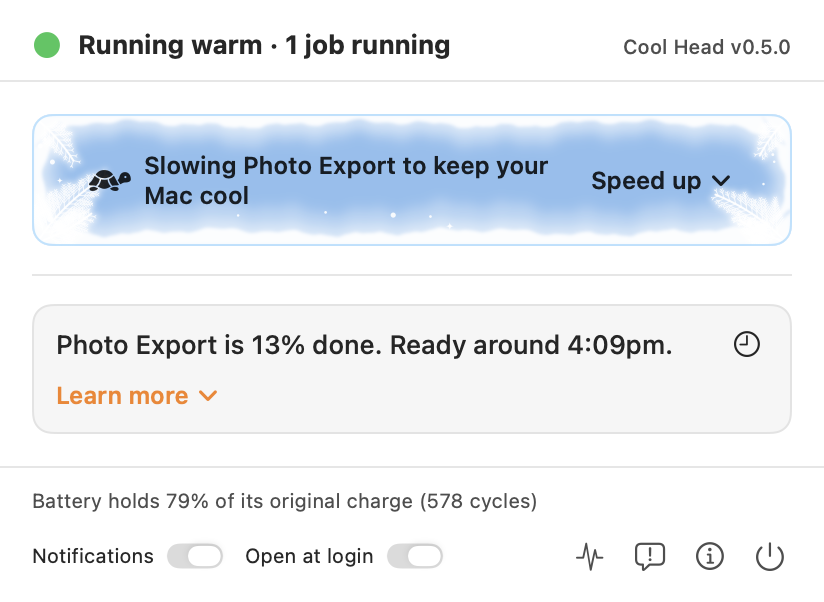
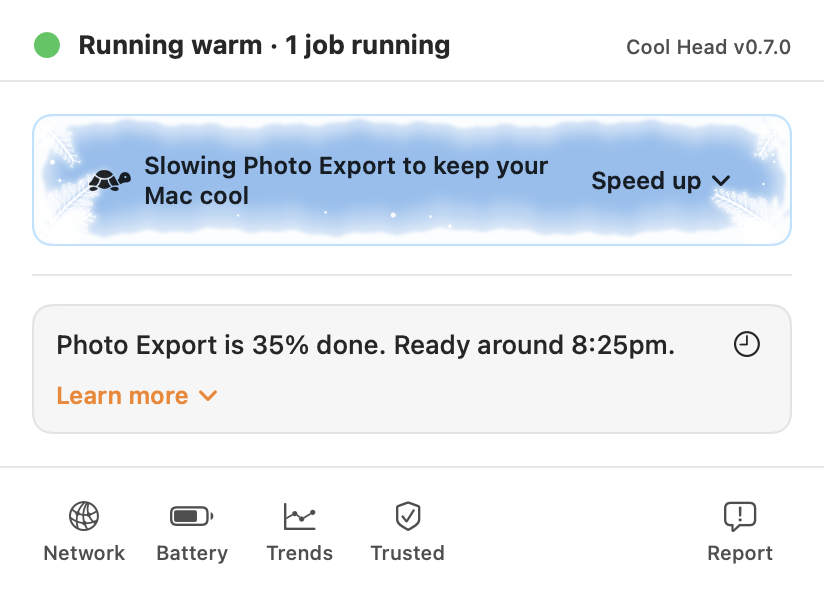
Release 0.7.0
Changes gathered into CHANGELOG.md (9 entries), VERSION and CoolHead.version
0.7.0, What's new for 0.7.0, and README screenshots of the new option groups
and tools, taken from a demo job (none of the maintainer's processes).

diff --git a/Sources/CoolHeadApp/PanelView.swift b/Sources/CoolHeadApp/PanelView.swift
@@ -629,6 +629,13 @@ struct WhatsNewCard: View {
 /// versions of CHANGELOG.md.
 enum WhatsNew {
     static let notes: [String: [String]] = [
+        "0.7.0": [
+            "Options come in two groups: One click, which Cool Head does for you, then Do it yourself. Risky ones say Caution.",
+            "Tools along the bottom: Test my network and Battery, each with its own page, and Trends for the past week's energy use.",
+            "Hardware checks with no password: the drive, the battery and charging, crash restarts, and USB-C ports.",
+            "The memory card notices memory moved to disk, and a startup disk that's nearly full.",
+            "Turn off another app's background helper, or keep a build's output out of Time Machine, in one click.",
+        ],
         // 0.6.1 repeats 0.6.0's notes without the Melting Snowflake bar, which 0.6.1 removed: only the newest version's
         // notes are shown, so someone updating from 0.5.0 straight to 0.6.1 still hears what 0.6.0 brought
         "0.6.1": [

diff --git a/Sources/CoolHeadCore/CaseReport.swift b/Sources/CoolHeadCore/CaseReport.swift
@@ -3,7 +3,7 @@ import Security
 
 public enum CoolHead {
     /// Kept in step with the VERSION file; scripts/build-app.sh checks they match.
-    public static let version = "0.6.1"
+    public static let version = "0.7.0"
 }
 
 /// The anonymised report behind "Share this case": what Cool Head saw about a process it couldn't explain, with

diff --git a/CHANGELOG.md b/CHANGELOG.md
@@ -6,6 +6,50 @@ What changed in each version of Cool Head, newest first, in plain words. The for
 
 Changes waiting for the next release are in [changes/](changes/), one file each, so pull requests don't edit the same lines here. The release pull request gathers them into this file (see [RELEASING.md](RELEASING.md)).
 
+## [0.7.0] - 2026-11-16
+
+### Added
+
+- Hardware checks, with no password. A card appears, saying what to do (including how to run Apple Diagnostics), when:
+  - the Mac's internal drive reports a fault, errors it couldn't correct, or heavy wear;
+  - the battery needs service, has recorded a fault, or holds under 80% of its original charge;
+  - it's plugged in but not charging, with the likely reason: on hold on purpose, too warm, or a charger that isn't keeping up;
+  - the Mac restarted because of a crash, or crashed more than once in a week;
+  - a device asked a USB-C port for more power than it can give, or keeps failing to connect.
+  - `coolhead hardware` prints every check, and what can't be checked: the memory, and Apple Diagnostics' own results.
+- Cool Head knows six more causes of heat, drain or a Mac that won't sleep, each with its source and the macOS versions it was seen on:
+  - macOS's sound service, which keeps the Mac awake while apps play or record sound; when it's busy for long, a virtual microphone or an app that hides the microphone dot is the likely cause.
+  - Contacts syncing on macOS 26.4 and later, where a Contacts widget is the likely cause.
+  - Messages catching up with iCloud.
+  - Aerial wallpaper and screen saver downloads on macOS 14 and 15.
+  - DisplayLink Manager drawing extra screens.
+  - Local AI models in Ollama and LM Studio.
+- **The past week**: which apps and parts of macOS used the most energy, which woke the chip most often, and why the Mac woke from sleep (on a timer, the lid, a charger, the Wi-Fi and Bluetooth chip), read from macOS's own power log. Cool Head reads only those figures, never the record of which app you were using, and keeps no copy. `coolhead history` prints the same in Terminal.
+- The memory card says how much memory your Mac moved to its disk in the last 2 minutes, and shows even when macOS still calls memory normal if that's over 1 GB.
+  - When memory is tight and the startup disk has less than 20 GB free, it says the disk limits how much your Mac can use as memory, and offers Free up disk space, which opens Storage settings.
+- **Stop it starting by itself.** When a busy process is another app's background helper (Google's updater, for one), its card offers to turn the helper off: stopped now and kept from starting at login, which stopping alone can't do, since macOS starts a helper again. It's marked Caution, because what the helper does for its app stops too, and it asks first. Turn it back on from its line at the top of the panel.
+- **Keep build output out of Time Machine.** When Time Machine is busy while a build keeps rewriting its output (Xcode's DerivedData, a project's build or node_modules folder), its card says so and offers to leave that folder out of later backups, in one click. Only folders a build makes again are offered. Back it up again from its line at the top of the panel.
+- **Test my network**, a tool along the bottom of the panel, for a Mac that feels slow when nothing on it is busy. It shows how the Mac is connected without asking for any permission, and runs Apple's own network test only when you press Start test, since the test fills your connection for up to 30 seconds.
+  - The page keeps one size from the moment it opens: the Wi-Fi signal (Strong, Fair or Weak, with the numbers a click away), download, upload and delay fill in as the test runs.
+  - The result says in a few words whether the network is the problem, then in one plain sentence what the connection is fine for and only what isn't, and marks web, HD and 4K video, video calls and games as Fine, Laggy or Too slow, from the speeds the FCC, Netflix and Zoom publish.
+  - When something is wrong, it offers fixes for the causes it found (a sync app filling the connection, a weak Wi-Fi signal, a router setting, AirDrop, iCloud Private Relay, a VPN or proxy), most useful first. When the network is fine, it offers none.
+
+### Changed
+
+- A card's options are in two groups: **One click**, which Cool Head does for you, then **Do it yourself**, where Cool Head takes you there and shows how. Your tasks have a dashed outline; Cool Head's are filled.
+  - When the recommended option would be a task for you, a safe one-click option that helps is recommended instead, such as Limit Chrome or Run it cooler.
+  - Options with consequences that can't be undone or known are tagged **Caution** in the tile's corner: Stop, Force Quit, Restart the browser, and quitting an app in the middle of something (containers, a call, a game, a browser's tabs). Quitting an app that asks to save, or loses nothing, such as Slack, isn't, and is recommended when it's the way to free memory.
+  - A task that fixes the cause when the recommended option only eases it, such as closing Chrome's heaviest tabs, is tagged **Fixes the cause**.
+  - Within each group, the options that do the most come first.
+  - The switches in the panel show their color when on, even while another app is in front.
+- **Tools along the bottom, settings in the right-click menu.** The bottom of the panel is now a row of tools, each an icon with its name: Network (Test my network), Battery, Trends (the past week from macOS's power log, with a chart icon), Trusted, and Report at the right, each opening in the panel's middle. The Activity Monitor and Quit buttons are gone; Quit is in the right-click menu. The settings move into a **Settings** submenu of the right-click menu, each one a toggle: Notifications and Open at Login, then how Cool Head looks: a new Hide Tool Names, and Melting Snowflake Icon, which replaces the Menu Bar Icon choice. Check for Updates stays at the top of the menu, and About and Quit at the bottom.
+  - **Battery** opens the battery's page, laid out like Test my network: whether it's healthy, three figures (how much charge it holds, its cycles against Apple's rating, its temperature), what it's doing now (on battery, charging, or plugged in and why it isn't charging), Low Power Mode, and the switch for **Battery Saver**, the setting first called Save Battery When Unplugged, which you may turn on and off as your day changes. The battery line above the tools is gone. A Mac with no battery has no Battery tool.
+  - Trusted is now a list in the panel, the standard macOS way: select one and press − to stop trusting it, or press + to choose an app to trust.
+
+### Fixed
+
+- The Docker card says Docker's virtual machine stops on its own 5 minutes after the last container stops (Docker's Resource Saver, on by default); it had said the machine keeps running.
+
 ## [0.6.1] - 2026-11-16
 
 ### Fixed
@@ -180,7 +224,8 @@ Changes waiting for the next release are in [changes/](changes/), one file each,
 
 - This download has no signature file: signing began with 0.3.0, the first version that updates itself.
 
-[Unreleased]: https://github.com/ThePhilDiamond/CoolHead/compare/v0.6.1...HEAD
+[Unreleased]: https://github.com/ThePhilDiamond/CoolHead/compare/v0.7.0...HEAD
+[0.7.0]: https://github.com/ThePhilDiamond/CoolHead/compare/v0.6.1...v0.7.0
 [0.6.1]: https://github.com/ThePhilDiamond/CoolHead/compare/v0.6.0...v0.6.1
 [0.6.0]: https://github.com/ThePhilDiamond/CoolHead/compare/v0.5.0...v0.6.0
 [0.5.0]: https://github.com/ThePhilDiamond/CoolHead/compare/v0.4.5...v0.5.0

diff --git a/README.md b/README.md
@@ -7,7 +7,7 @@
 <p align="center">
   <picture>
     <source media="(prefers-color-scheme: dark)" srcset="docs/images/panel-dark.png">
-    <img src="docs/images/panel-light.png" width="400" alt="The Cool Head panel on a warm Mac: a card saying a photo export job is 15% done and ready around 1:52pm, adding to the heat, with Run it cooler recommended and Stop it below">
+    <img src="docs/images/panel-light.png" width="400" alt="The Cool Head panel on a warm Mac: a card saying a photo export job is 16% done and ready around 8:26pm, adding to the heat; under One click, Run it cooler is recommended and Stop it is marked Caution; the tools along the bottom are Network, Battery, Trends, Trusted and Report">
   </picture>
 </p>
 
@@ -15,7 +15,7 @@
 
 Activity Monitor shows numbers. Cool Head reads what a busy process is actually doing (its command, what started it, the files it writes, the progress it reports) and tells you, in one short sentence, whether that's fine:
 
-> **Photo Export is 15% done. Ready around 1:52pm.**
+> **Photo Export is 16% done. Ready around 8:26pm.**
 
 > **Spotlight is indexing your files. That's normal.**
 
